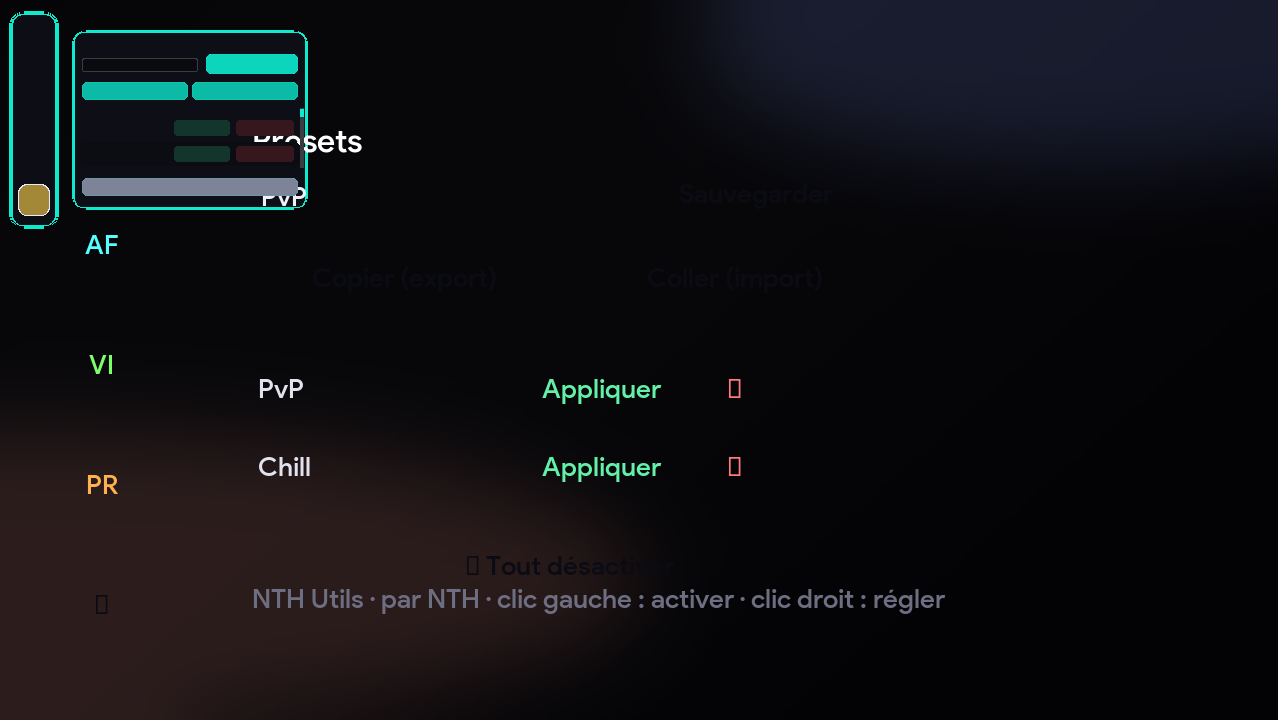
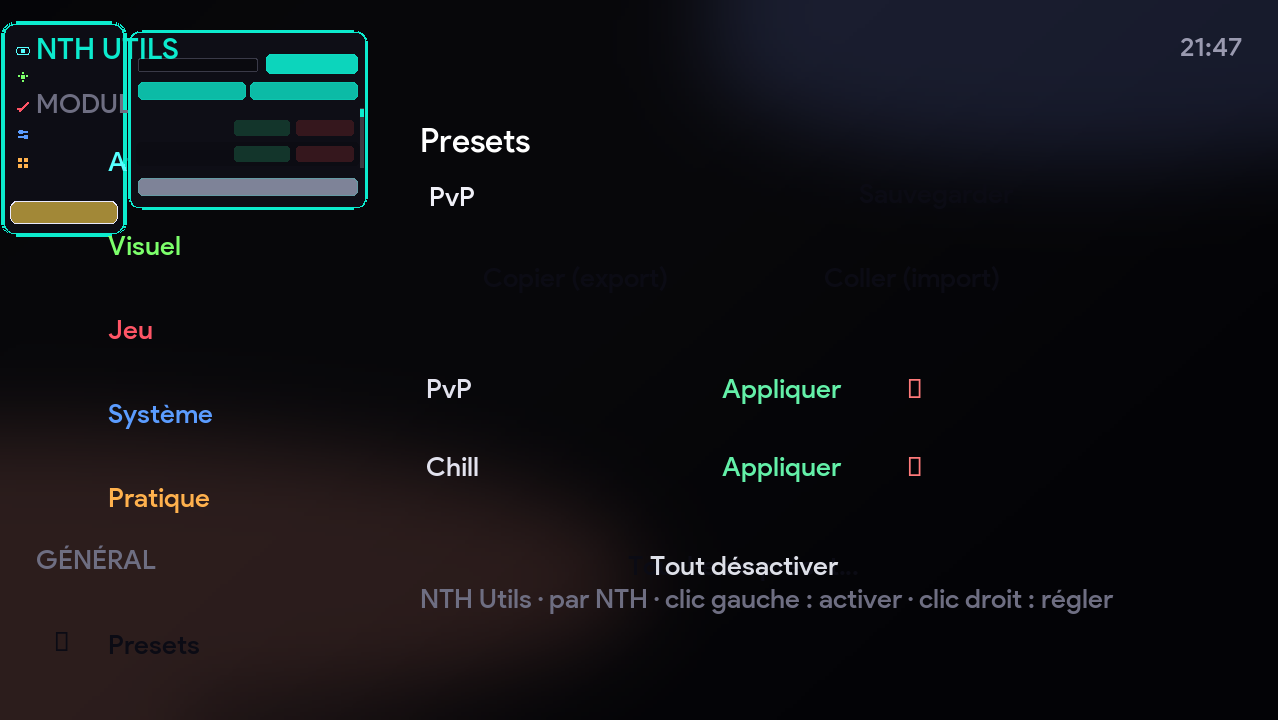
Captures v3 (rail à sections + horloge), README/site : modules classés en 5 catégories

diff --git a/docs/index.html b/docs/index.html
@@ -262,7 +262,11 @@
     <div style="display:grid;grid-template-columns:repeat(auto-fit,minmax(320px,1fr));gap:16px;margin-top:24px">
       <figure style="margin:0;background:rgba(12,12,20,.72);border:1px solid rgba(122,60,255,.28);border-radius:14px;padding:10px">
         <img src="screenshots/menu-principal.png" alt="Menu principal NTH Utils" loading="lazy" style="width:100%;border-radius:8px;display:block">
-        <figcaption style="padding:8px 4px 2px;font-size:13px;color:#aab">Menu principal — rail latéral, modules et paramètres empilés (clic droit sur un module)</figcaption>
+        <figcaption style="padding:8px 4px 2px;font-size:13px;color:#aab">Menu principal — rail à sections façon Corz : 5 catégories (Affichage, Visuel, Jeu, Système, Pratique) + Presets, header avec horloge, modules sur 2 lignes</figcaption>
+      </figure>
+      <figure style="margin:0;background:rgba(12,12,20,.72);border:1px solid rgba(122,60,255,.28);border-radius:14px;padding:10px">
+        <img src="screenshots/menu-parametres.png" alt="Paramètres d'un module NTH Utils" loading="lazy" style="width:100%;border-radius:8px;display:block">
+        <figcaption style="padding:8px 4px 2px;font-size:13px;color:#aab">Paramètres d'un module — clic droit sur un module : sliders, toggles, keybind configurable</figcaption>
       </figure>
       <figure style="margin:0;background:rgba(12,12,20,.72);border:1px solid rgba(122,60,255,.28);border-radius:14px;padding:10px">
         <img src="screenshots/presets.png" alt="Gestion des presets" loading="lazy" style="width:100%;border-radius:8px;display:block">
@@ -346,29 +350,33 @@
 <script>
 const MODULES = {
   "Affichage": [
-    "HUD Infos", "Coordonnées", "Altitude", "Chunk", "Direction visuelle", "Angles de vue",
-    "Biome", "Dimension", "Lumière", "Heure du monde", "Jour du monde", "FPS info",
-    "FPS min/moy/max", "Mémoire (RAM)", "Vitesse", "Vitesse verticale", "Distance parcourue",
-    "Compteur de pas", "Vie", "Faim", "Saturation", "Air", "Niveau XP", "Progression XP",
-    "XP total", "Armure", "Objet en main", "Durabilité en main", "Météo", "Serveur",
-    "Marque du serveur", "Temps de session", "Entités proches", "Heure réelle", "Pseudo",
-    "UUID", "Ping HUD", "Keystrokes", "Durabilité",
-    "Phase de lune", "Période", "Résolution écran", "Taille interface", "Ping détaillé", "Bloc sous les pieds",
-    "Position arrondie", "Chunk local", "Jour écoulé", "Main secondaire", "Pièces d'armure", "Empilement max main",
-    "CPS", "Vitesse km/h", "Waypoints", "Vie monture", "Chrono", "Clics totaux"
-  ],
-  "Pratique": [
-    "Coordonnées Nether", "Mode de jeu", "Bloc visé", "Entité visée", "Distance de visée",
-    "Recharge d'attaque", "Hauteur de chute", "Auto Sprint", "Copier Coordonnées",
-    "Boussole", "Difficulté", "Effets actifs", "Vol", "Véhicule", "Accroupi", "Sprint",
-    "Sous l'eau", "En feu", "Java", "Système", "Plein écran", "Solo / Multi", "Message auto", "Reconnexion auto", "Anti AFK", "Mention chat", "Alerte vie",
-    "Quantité en main", "Position visée",
-    "Durabilité % main", "Face visée", "Vie visée", "Entité visée (pos)", "Dégâts récents",
-    "Distance au 0,0", "Mods chargés", "À propos", "Version Fabric", "Chrono reset", "Log de chat", "Alerte faim", "Alerte durabilité", "Sons d'interface"
+    "Air", "Altitude", "Angles de vue", "Armure", "Biome", "Bloc sous les pieds", "Boussole", "CPS", "Chrono",
+    "Chunk", "Chunk local", "Clics totaux", "Compteur de pas", "Coordonnées", "Dimension", "Direction visuelle",
+    "Distance parcourue", "Durabilité", "Durabilité en main", "Effets actifs", "Empilement max main", "Entités proches",
+    "FPS info", "FPS min/moy/max", "Faim", "HUD Infos", "Heure du monde", "Heure réelle", "Jour du monde",
+    "Jour écoulé", "Keystrokes", "Lumière", "Main secondaire", "Météo", "Niveau XP", "Objet en main", "Phase de lune",
+    "Pièces d'armure", "Position arrondie", "Progression XP", "Période", "Saturation", "Temps de session",
+    "Vie", "Vie monture", "Vitesse", "Vitesse km/h", "Vitesse verticale", "XP total"
   ],
   "Visuel": [
-    "FullBright", "Zoom", "No Hurt Cam", "Limite FPS", "FOV personnalisé",
-    "Caméra lisse", "Anti Pluie", "Sensibilité souris", "Luminosité réglage", "Distance de rendu", "Anti Orage", "Rareté de l'objet", "Position du HUD", "Viseur personnalisé", "Déplacer le HUD", "Radar joueurs", "Couleur du HUD"
+    "Anti Orage", "Anti Pluie", "Caméra lisse", "Couleur du HUD", "Distance de rendu", "Dégradés", "FOV personnalisé",
+    "FullBright", "Limite FPS", "Luminosité réglage", "No Hurt Cam", "Position du HUD", "Radar joueurs",
+    "Rareté de l'objet", "Sensibilité souris", "Viseur personnalisé", "Zoom"
+  ],
+  "Jeu": [
+    "Accroupi", "Auto Sprint", "Bloc visé", "Distance de visée", "Durabilité % main", "Dégâts récents", "En feu",
+    "Entité visée", "Entité visée (pos)", "Face visée", "Hauteur de chute", "Position visée", "Quantité en main",
+    "Recharge d'attaque", "Sous l'eau", "Sprint", "Vie visée", "Vol", "Véhicule"
+  ],
+  "Système": [
+    "Difficulté", "Marque du serveur", "Mode de jeu", "Mods chargés", "Mémoire (RAM)", "Ping HUD", "Ping détaillé",
+    "Pseudo", "Résolution écran", "Serveur", "Solo / Multi", "Système", "Taille interface", "UUID", "Version Fabric",
+    "Version Java", "À propos"
+  ],
+  "Pratique": [
+    "Alerte durabilité", "Alerte faim", "Alerte vie", "Anti AFK", "Chrono reset", "Coordonnées Nether", "Copier Coordonnées",
+    "Distance au 0,0", "Log de chat", "Mention chat", "Message auto", "Optimiseur FPS", "Plein écran", "Reconnexion auto",
+    "Sons d'interface"
   ]
 };
 

diff --git a/README.md b/README.md
@@ -8,8 +8,8 @@
 
 | | |
 |---|---|
-| **Menu principal** (rail à la Corz + paramètres empilés, clic droit sur un module) | **Presets** (★ dans le rail : sauvegarde, export, import) |
-| ![Menu principal](docs/screenshots/menu-principal.png) | ![Presets](docs/screenshots/presets.png) |
+| **Menu principal** (rail à la Corz : 5 catégories + Presets, header horloge, modules 2 lignes) | **Paramètres d'un module** (clic droit : sliders, toggles, keybind) |
+| ![Menu principal](docs/screenshots/menu-principal.png) | ![Paramètres d'un module](docs/screenshots/menu-parametres.png) |
 | **HUD en jeu** (dégradés + Keystrokes) | **Palettes de thème** (accent animé, à la CorzClient) |
 | ![HUD](docs/screenshots/hud.png) | ![Palettes](docs/screenshots/palettes.png) |
 
@@ -38,9 +38,11 @@ Depuis **26.1**, Minecraft n'est **plus obfusqué** : le jeu sort avec les noms 
 
 | Catégorie | Exemples |
 |---|---|
-| Affichage (57) | HUD Infos, Coordonnées, Altitude, Chunk, Direction, Angles de vue, Biome, Dimension, Lumière, Heure du monde, Jour du monde, FPS info, FPS min/moy/max, RAM, Vitesse, Vitesse verticale, Distance parcourue, Pas, Vie, Faim, Saturation, Air, XP (niveau / progression / total), Armure, Objet en main, Durabilité en main, Météo, Serveur, Marque du serveur, Session, Entités proches, Heure réelle, Pseudo, UUID, Ping HUD, Keystrokes, Durabilité, Phase de lune, Période, Résolution écran, Taille interface, Ping détaillé, Bloc sous les pieds, Position arrondie, Chunk local, Jour écoulé, Main secondaire, Pièces d'armure, Empilement max main |
-| Pratique (43) | Coordonnées Nether, Mode de jeu, Bloc visé, Entité visée, Distance de visée, Recharge d'attaque, Hauteur de chute, Auto Sprint, Copier Coordonnées, Boussole, Difficulté, Effets actifs, Vol, Véhicule, Accroupi, Sprint, Sous l'eau, En feu, Java, Système, Plein écran, Solo / Multi, Quantité en main, Position visée, Durabilité % main, Face visée, Vie visée, Entité visée (pos), Dégâts récents, Distance au 0,0, Mods chargés, À propos, Version Fabric |
-| Visuel (17) | FullBright (slider), Zoom (facteur réglable), No Hurt Cam, Limite FPS, FOV personnalisé (slider), Caméra lisse, Anti Pluie, Sensibilité souris, Luminosité réglage, Distance de rendu, Anti Orage, Rareté de l'objet |
+| Affichage (49) | Air, Altitude, Angles de vue, Armure, Biome, Bloc sous les pieds, Boussole, CPS, Chrono, Chunk, Chunk local, Clics totaux, Compteur de pas, Coordonnées, Dimension, Direction visuelle, Distance parcourue, Durabilité, Durabilité en main, Effets actifs, Empilement max main, Entités proches, FPS info, FPS min/moy/max, Faim, HUD Infos, Heure du monde, Heure réelle, Jour du monde, Jour écoulé, Keystrokes, Lumière, Main secondaire, Météo, Niveau XP, Objet en main, Phase de lune, Pièces d'armure, Position arrondie, Progression XP, Période, Saturation, Temps de session, Vie, Vie monture, Vitesse, Vitesse km/h, Vitesse verticale, XP total |
+| Visuel (17) | Anti Orage, Anti Pluie, Caméra lisse, Couleur du HUD, Distance de rendu, Dégradés, FOV personnalisé, FullBright, Limite FPS, Luminosité réglage, No Hurt Cam, Position du HUD, Radar joueurs, Rareté de l'objet, Sensibilité souris, Viseur personnalisé, Zoom |
+| Jeu (19) | Accroupi, Auto Sprint, Bloc visé, Distance de visée, Durabilité % main, Dégâts récents, En feu, Entité visée, Entité visée (pos), Face visée, Hauteur de chute, Position visée, Quantité en main, Recharge d'attaque, Sous l'eau, Sprint, Vie visée, Vol, Véhicule |
+| Système (17) | Difficulté, Marque du serveur, Mode de jeu, Mods chargés, Mémoire (RAM), Ping HUD, Ping détaillé, Pseudo, Résolution écran, Serveur, Solo / Multi, Système, Taille interface, UUID, Version Fabric, Version Java, À propos |
+| Pratique (15) | Alerte durabilité, Alerte faim, Alerte vie, Anti AFK, Chrono reset, Coordonnées Nether, Copier Coordonnées, Distance au 0,0, Log de chat, Mention chat, Message auto, Optimiseur FPS, Plein écran, Reconnexion auto, Sons d'interface |
 
 Chaque module a ses réglages (toggles, sliders) dans le menu in-game, sauvegardés automatiquement et exportables via presets. Nouveaux : **Dégradés** (couleurs hex personnalisables du HUD et du menu) et **Optimiseur FPS** (particules, nuages, ombres, distance de simulation…).
 
